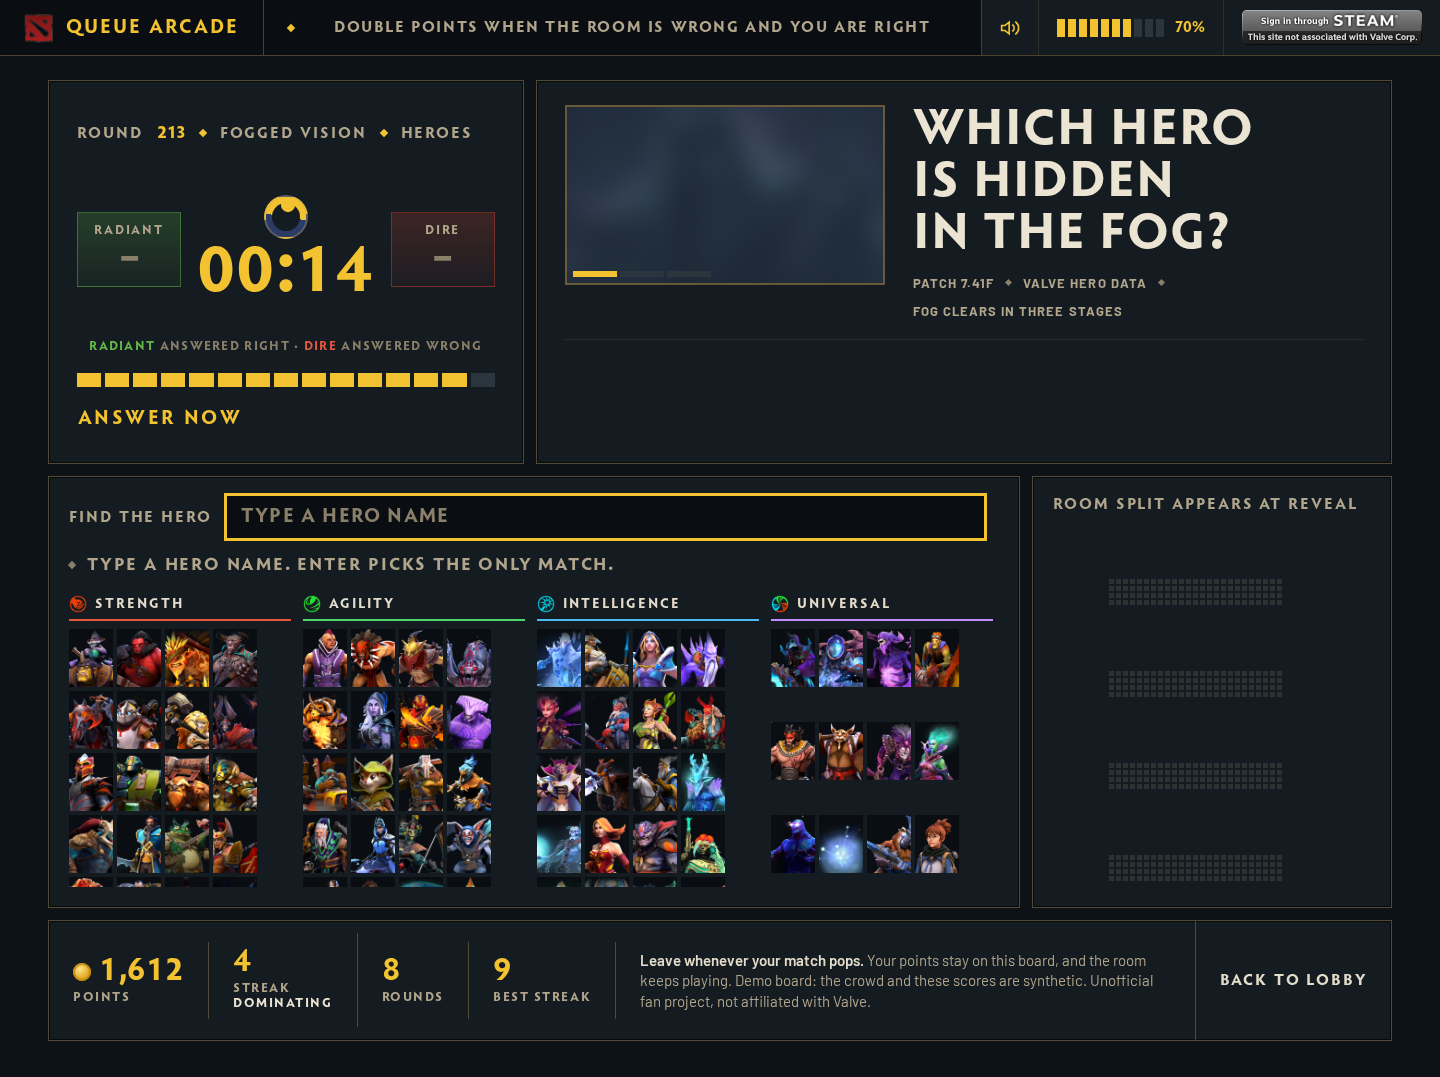
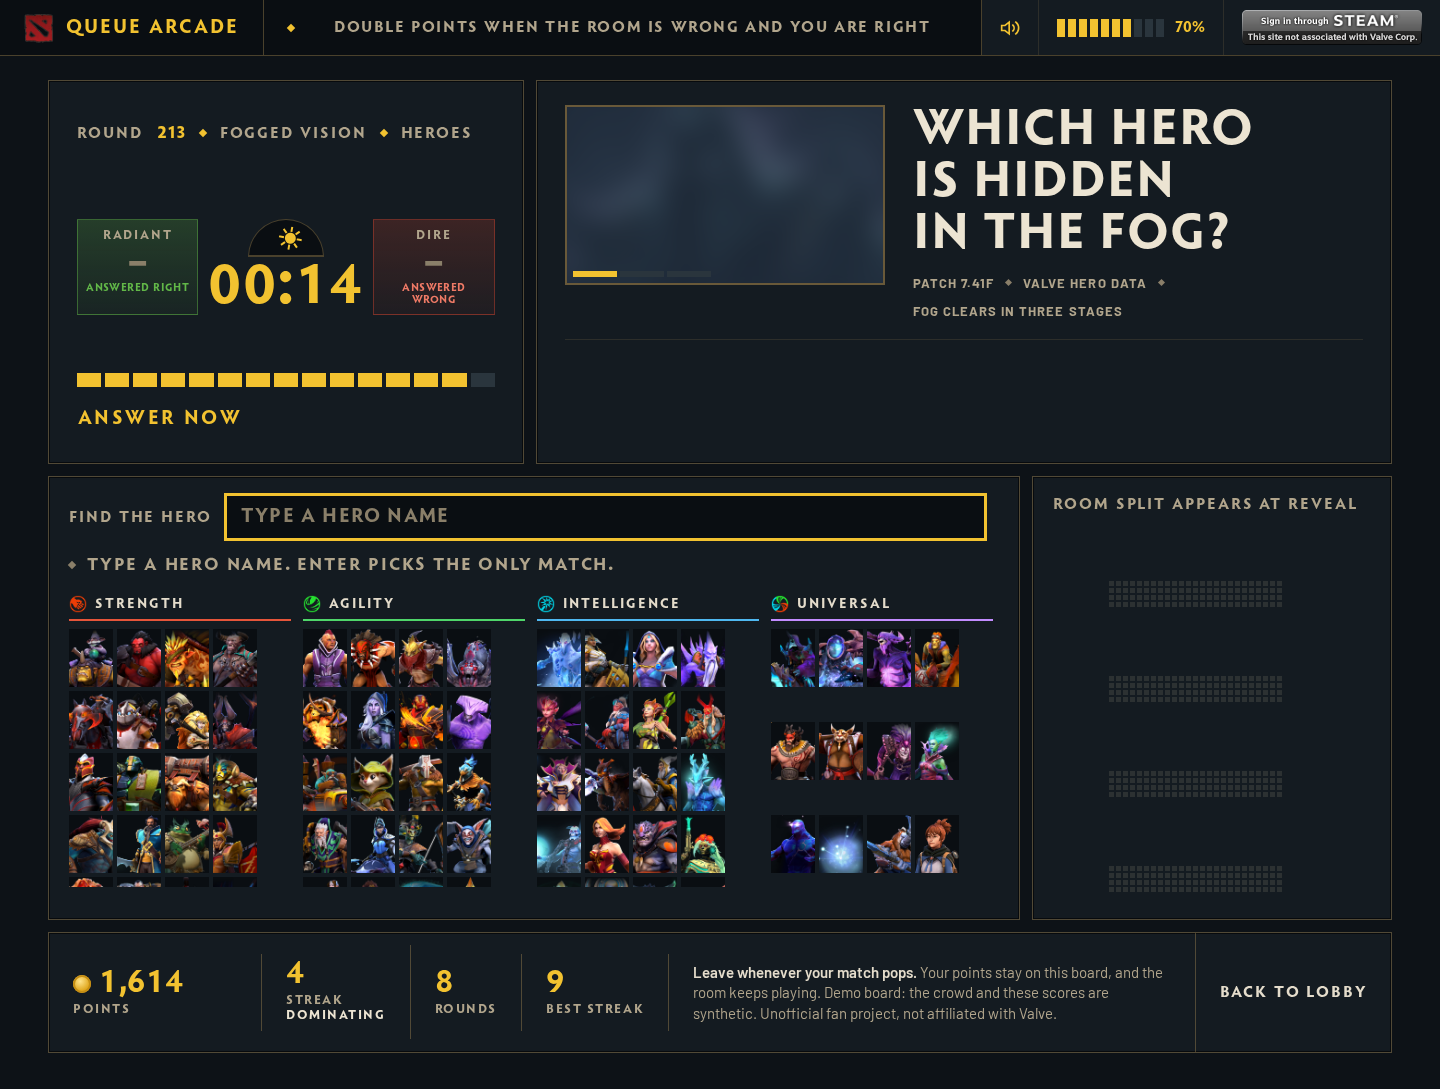
Dota 2 skin v2 review fixes: gold float, day-night horizon with sun and moon, HUD captions, padlock cooldown, attribute jump strip on phones, flash keeps the bars, lobby slot column.

diff --git a/design/poc/led-board/theme-dota.css b/design/poc/led-board/theme-dota.css
@@ -54,63 +54,42 @@ body { background-color: var(--ground); background-image: none; }
 /* --------------------------------------------------------------- the HUD top bar */
 .hud {
   display: grid;
-  grid-template-columns: 1fr auto 1fr;
+  grid-template-columns: minmax(0, 1fr) auto minmax(0, 1fr);
   align-items: center;
-  gap: 16px;
+  gap: 10px;
   align-self: center;
+  min-width: 0;
 }
-.hud-side { display: grid; gap: 2px; justify-items: center; padding: 10px 8px; border: 1px solid var(--seam-strong); }
+.hud-side { display: grid; gap: 2px; justify-items: center; padding: 8px 6px 6px; border: 1px solid var(--seam-strong); min-width: 0; }
+.hud-side small { font-family: var(--font-sign); font-weight: 700; font-size: 0.6875rem; letter-spacing: 0.04em; text-transform: uppercase; color: var(--text-3); white-space: normal; text-align: center; line-height: 1.1; min-height: 2.2em; display: grid; align-content: start; }
+.hud-side.radiant small { color: var(--green); }
+.hud-side.dire small { color: #ef7a66; }
 .hud-side span { font-family: var(--font-sign); font-weight: 700; font-size: 0.8125rem; letter-spacing: 0.14em; text-transform: uppercase; color: var(--text-2); }
 .hud-side b { font-family: var(--font-sign); font-weight: 700; font-size: 2.25rem; line-height: 1; color: var(--text-3); font-variant-numeric: tabular-nums; min-width: 3ch; text-align: center; }
 .hud-side.radiant { background: linear-gradient(180deg, rgba(98, 184, 72, 0.22), rgba(98, 184, 72, 0.06)); border-color: rgba(98, 184, 72, 0.45); }
 .hud-side.dire { background: linear-gradient(180deg, rgba(201, 67, 46, 0.22), rgba(201, 67, 46, 0.06)); border-color: rgba(201, 67, 46, 0.45); }
 .phase-reveal .hud-side.radiant b { color: var(--green); }
-.phase-reveal .hud-side.dire b { color: var(--red); }
+.phase-reveal .hud-side.dire b { color: var(--red-text); }
 .hud-clock { display: grid; justify-items: center; gap: 6px; }
-.clock { font-family: var(--font-sign); font-weight: 700; font-size: clamp(3.25rem, 4.6vw, 4.5rem); letter-spacing: 0.02em; line-height: 0.9; }
+.clock { font-family: var(--font-sign); font-weight: 700; font-size: clamp(2.75rem, 4vw, 3.75rem); letter-spacing: 0.02em; line-height: 0.9; }
 
-/* the day-night dial: sun up while answering, moon up at reveal */
+/* the day-night horizon: the sun stands over the clock while answering, the moon rises at reveal */
 .dial {
   display: block;
-  width: 44px; height: 44px;
-  border-radius: 50%;
-  border: 2px solid var(--seam-strong);
-  background: conic-gradient(from calc(-90deg + var(--turn, 0deg)), #f2c230 0deg 180deg, #2a3b66 180deg 360deg);
   position: relative;
+  width: 76px; height: 38px;
+  border-radius: 76px 76px 0 0;
+  border: 1px solid var(--seam-strong);
+  border-bottom: 0;
+  background: #0a0e12;
   overflow: hidden;
-  transition: none;
 }
-.dial::before {
-  content: "";
-  position: absolute;
-  inset: 6px;
-  border-radius: 50%;
-  background: var(--module);
-}
-.dial::after {
-  content: "";
-  position: absolute;
-  top: 50%; left: 50%;
-  width: 14px; height: 14px;
-  border-radius: 50%;
-  background: #f2c230;
-  transform: translate(-50%, -50%) rotate(var(--turn, 0deg)) translateY(-12px) rotate(calc(-1 * var(--turn, 0deg)));
-}
-.phase-reveal .dial::after { background: #d9dde6; box-shadow: inset 4px -2px 0 0 var(--module); }
-.hud-legend {
-  margin: 0;
-  font-family: var(--font-sign);
-  font-weight: 700;
-  font-size: 0.8125rem;
-  letter-spacing: 0.1em;
-  text-transform: uppercase;
-  color: var(--text-3);
-  text-align: center;
-  min-height: 1.4em;
-}
-.hud-legend em { font-style: normal; color: var(--green); }
-.hud-legend strong { font-weight: 700; color: var(--red-text); }
-.clock-module { grid-template-rows: auto 1fr auto auto auto; }
+.dial::after { content: ""; position: absolute; left: 0; right: 0; bottom: 0; height: 2px; background: var(--seam-strong); }
+.dial .sky { position: absolute; left: 0; top: 0; width: 76px; height: 76px; transform: rotate(var(--turn, 0deg)); }
+.dial svg { position: absolute; left: 50%; width: 24px; height: 24px; }
+.dial .sun { top: 6px; transform: translateX(-50%); fill: #f2c230; stroke: #f2c230; stroke-width: 2; }
+.dial .moon { bottom: 6px; transform: translateX(-50%) rotate(180deg); fill: #d9dde6; }
+.clock-module { grid-template-rows: auto 1fr auto auto; }
 .phase-reveal .clock { color: var(--lit); }
 .phase-reveal.result-right .clock { color: var(--green); }
 .phase-reveal.result-wrong .clock { color: var(--red); }
@@ -158,11 +137,8 @@ body { background-color: var(--ground); background-image: none; }
   display: none;
   background: conic-gradient(rgba(0, 0, 0, 0.72) calc(var(--cd, 0) * 1turn), transparent 0);
   place-items: center;
-  font-family: var(--font-sign);
-  font-weight: 700;
-  font-size: 1.5rem;
-  color: #fff;
 }
+.cell .cd svg { width: 22px; height: 22px; fill: none; stroke: #fff; stroke-width: 2; stroke-linejoin: miter; }
 .locked:not(.phase-reveal) .cell.picked .cd { display: grid; }
 .cell .label { font-weight: 700; font-size: 1.625rem; letter-spacing: 0.02em; }
 .cell .pct, .fog-split .row .pct, .round-label .num, .ticker-track .num, .fixtures .count, .volume .pct, .verdict .num, .scoring .num { font-family: var(--font-sign); font-weight: 700; }
@@ -173,15 +149,16 @@ body { background-color: var(--ground); background-image: none; }
 .phase-reveal .cell.correct .well, .phase-reveal .cell.picked.wrong .well { background: #0d1217; box-shadow: none; }
 .phase-reveal .cell.correct .key { color: var(--green); }
 .phase-reveal .cell.picked.wrong .key { color: var(--red); }
-.phase-reveal .cell.correct.breaker .well { background: var(--gold); animation: breaker-dota 0.5s steps(1) infinite; }
-.phase-reveal .cell.correct.breaker .key { color: #0d1217; }
-@keyframes breaker-dota { 50% { background: #0d1217; } }
-.phase-reveal .cell.correct.breaker .well .key { animation: breaker-key 0.5s steps(1) infinite; }
-@keyframes breaker-key { 50% { color: var(--gold); } }
+.phase-reveal .cell.correct.breaker .well { background: var(--gold); color: #0d1217; animation: breaker-dota 0.5s steps(1) infinite; }
+.phase-reveal .cell.correct.breaker .well .key { color: inherit; }
+@keyframes breaker-dota { 50% { background: #0d1217; color: var(--gold); } }
+@media (prefers-reduced-motion: reduce) { .phase-reveal .cell.correct.breaker .well { animation: none; } }
 
 /* -------------------------------------------------------------- bottom HUD */
 .scoreboard .stat b { font-family: var(--font-sign); font-weight: 700; font-size: 2rem; color: var(--amber); display: flex; align-items: center; gap: 8px; }
-#points::before {
+.scoreboard .stat b.gold span { font-family: inherit; font-size: inherit; font-weight: inherit; letter-spacing: inherit; text-transform: none; color: inherit; }
+.scoreboard .stat .float { font-style: normal; font-size: 1.125rem; color: var(--amber); min-width: 4.5ch; }
+.scoreboard .stat .gold::before {
   content: "";
   width: 18px; height: 18px;
   border-radius: 50%;
@@ -194,9 +171,27 @@ body { background-color: var(--ground); background-image: none; }
 
 /* ---------------------------------------------------------- the pick screen */
 .hero-grid { display: grid; grid-template-columns: repeat(4, 1fr); gap: 12px; align-content: start; }
+.hero-picker { grid-template-rows: auto auto auto 1fr; }
+.attr-jump { display: none; grid-template-columns: repeat(4, 1fr); gap: 6px; }
+.attr-jump button {
+  display: flex; align-items: center; justify-content: center; gap: 6px;
+  height: 36px; padding: 0;
+  background: #0a0e12; border: 1px solid var(--seam-strong); border-bottom-width: 3px;
+  font-family: var(--font-sign); font-weight: 700; font-size: 0.7rem; letter-spacing: 0.06em; text-transform: uppercase; color: var(--text);
+  cursor: pointer;
+}
+.attr-jump button img { width: 16px; height: 16px; }
+.attr-jump button[data-attr="str"] { border-bottom-color: var(--str); }
+.attr-jump button[data-attr="agi"] { border-bottom-color: var(--agi); }
+.attr-jump button[data-attr="int"] { border-bottom-color: var(--int); }
+.attr-jump button[data-attr="all"] { border-bottom-color: var(--all); }
 .attr-group { display: grid; grid-template-rows: auto 1fr; gap: 8px; align-content: start; }
 .attr-group h3 {
   margin: 0;
+  position: sticky;
+  top: 0;
+  z-index: 1;
+  background: var(--module);
   display: flex;
   align-items: center;
   gap: 8px;
@@ -266,9 +261,17 @@ body { background-color: var(--ground); background-image: none; }
   .prompt { min-height: 3em; }
   .cell .bonus, .cell .sub { font-size: 0.8rem; letter-spacing: 0.06em; }
   .clock-state { font-size: 1.0625rem; }
-  .dial { width: 32px; height: 32px; }
-  .dial::after { width: 10px; height: 10px; transform: translate(-50%, -50%) rotate(var(--turn, 0deg)) translateY(-9px) rotate(calc(-1 * var(--turn, 0deg))); }
-  .hud-legend { font-size: 0.7rem; }
+  .hud-side small { font-size: 0.6875rem; letter-spacing: 0.02em; }
+  .dial { width: 56px; height: 28px; }
+  .dial .sky { width: 56px; height: 56px; }
+  .dial svg { width: 18px; height: 18px; }
+  .dial .sun { top: 4px; }
+  .dial .moon { bottom: 4px; }
+  .fixtures .row { grid-template-columns: auto 1fr auto; }
+  .hero-grid { height: 320px; overflow-y: auto; }
+  .attr-jump { display: grid; }
+  .attr-jump button span { display: none; }
+  .attr-jump button { font-size: 0.65rem; }
   .cell { padding: 10px 10px 8px; }
   .cell .head { gap: 10px; }
   .cell .well { width: 40px; height: 40px; }

diff --git a/design/poc/led-board/play-dota.html b/design/poc/led-board/play-dota.html
@@ -30,11 +30,16 @@
     <section class="module clock-module" aria-live="off">
       <p class="round-label"><span>Round</span><span class="num" id="roundNumber">212</span><i class="led"></i><span id="roundFormat">Classic Trivia</span><i class="led"></i><span id="roundCategory">Items</span></p>
       <div class="hud">
-        <div class="hud-side radiant"><span>Radiant</span><b id="hudRadiant">–</b></div>
-        <div class="hud-clock"><i class="dial" id="dial" aria-hidden="true"></i><p class="clock" id="clock" role="timer" aria-label="Seconds left">00:15</p></div>
-        <div class="hud-side dire"><span>Dire</span><b id="hudDire">–</b></div>
+        <div class="hud-side radiant"><span>Radiant</span><b id="hudRadiant">–</b><small>answered right</small></div>
+        <div class="hud-clock">
+          <span class="dial" id="dial" aria-hidden="true"><span class="sky">
+            <svg class="sun" viewBox="0 0 24 24"><circle cx="12" cy="12" r="4.5"/><g stroke-linecap="square"><path d="M12 1.5v3M12 19.5v3M1.5 12h3M19.5 12h3M4.6 4.6l2.1 2.1M17.3 17.3l2.1 2.1M4.6 19.4l2.1-2.1M17.3 6.7l2.1-2.1"/></g></svg>
+            <svg class="moon" viewBox="0 0 24 24"><path d="M14.5 2.5a9.5 9.5 0 1 0 7 16A8 8 0 0 1 14.5 2.5z"/></svg>
+          </span></span>
+          <p class="clock" id="clock" role="timer" aria-label="Seconds left">00:15</p>
+        </div>
+        <div class="hud-side dire"><span>Dire</span><b id="hudDire">–</b><small>answered wrong</small></div>
       </div>
-      <p class="hud-legend"><em>Radiant</em> answered right · <strong>Dire</strong> answered wrong</p>
       <div class="timebar" id="timebar" aria-hidden="true"></div>
       <p class="clock-state" id="clockState">Answer now</p>
     </section>
@@ -52,10 +57,10 @@
     </section>
 
     <section class="answers" role="group" aria-label="Answers">
-      <button class="cell" type="button" data-key="A"><span class="head"><span class="well"><span class="key" aria-hidden="true">A</span><i class="cd" aria-hidden="true"></i><em class="hotkey" aria-hidden="true">A</em></span><span class="label">2,250 gold</span></span><span class="split"><span class="pct">31%</span><span class="dots" aria-hidden="true"></span></span><span class="foot"><span class="sub"></span><span class="bonus">2x crowd-breaker</span></span></button>
-      <button class="cell" type="button" data-key="B"><span class="head"><span class="well"><span class="key" aria-hidden="true">B</span><i class="cd" aria-hidden="true"></i><em class="hotkey" aria-hidden="true">B</em></span><span class="label">1,775 gold</span></span><span class="split"><span class="pct">44%</span><span class="dots" aria-hidden="true"></span></span><span class="foot"><span class="sub"></span><span class="bonus">2x crowd-breaker</span></span></button>
-      <button class="cell" type="button" data-key="C"><span class="head"><span class="well"><span class="key" aria-hidden="true">C</span><i class="cd" aria-hidden="true"></i><em class="hotkey" aria-hidden="true">C</em></span><span class="label">2,600 gold</span></span><span class="split"><span class="pct">15%</span><span class="dots" aria-hidden="true"></span></span><span class="foot"><span class="sub"></span><span class="bonus">2x crowd-breaker</span></span></button>
-      <button class="cell" type="button" data-key="D"><span class="head"><span class="well"><span class="key" aria-hidden="true">D</span><i class="cd" aria-hidden="true"></i><em class="hotkey" aria-hidden="true">D</em></span><span class="label">2,875 gold</span></span><span class="split"><span class="pct">10%</span><span class="dots" aria-hidden="true"></span></span><span class="foot"><span class="sub"></span><span class="bonus">2x crowd-breaker</span></span></button>
+      <button class="cell" type="button" data-key="A"><span class="head"><span class="well"><span class="key" aria-hidden="true">A</span><i class="cd" aria-hidden="true"><svg viewBox="0 0 24 24"><rect x="5" y="11" width="14" height="10"/><path d="M8 11V7a4 4 0 0 1 8 0v4"/></svg></i><em class="hotkey" aria-hidden="true">A</em></span><span class="label">2,250 gold</span></span><span class="split"><span class="pct">31%</span><span class="dots" aria-hidden="true"></span></span><span class="foot"><span class="sub"></span><span class="bonus">2x crowd-breaker</span></span></button>
+      <button class="cell" type="button" data-key="B"><span class="head"><span class="well"><span class="key" aria-hidden="true">B</span><i class="cd" aria-hidden="true"><svg viewBox="0 0 24 24"><rect x="5" y="11" width="14" height="10"/><path d="M8 11V7a4 4 0 0 1 8 0v4"/></svg></i><em class="hotkey" aria-hidden="true">B</em></span><span class="label">1,775 gold</span></span><span class="split"><span class="pct">44%</span><span class="dots" aria-hidden="true"></span></span><span class="foot"><span class="sub"></span><span class="bonus">2x crowd-breaker</span></span></button>
+      <button class="cell" type="button" data-key="C"><span class="head"><span class="well"><span class="key" aria-hidden="true">C</span><i class="cd" aria-hidden="true"><svg viewBox="0 0 24 24"><rect x="5" y="11" width="14" height="10"/><path d="M8 11V7a4 4 0 0 1 8 0v4"/></svg></i><em class="hotkey" aria-hidden="true">C</em></span><span class="label">2,600 gold</span></span><span class="split"><span class="pct">15%</span><span class="dots" aria-hidden="true"></span></span><span class="foot"><span class="sub"></span><span class="bonus">2x crowd-breaker</span></span></button>
+      <button class="cell" type="button" data-key="D"><span class="head"><span class="well"><span class="key" aria-hidden="true">D</span><i class="cd" aria-hidden="true"><svg viewBox="0 0 24 24"><rect x="5" y="11" width="14" height="10"/><path d="M8 11V7a4 4 0 0 1 8 0v4"/></svg></i><em class="hotkey" aria-hidden="true">D</em></span><span class="label">2,875 gold</span></span><span class="split"><span class="pct">10%</span><span class="dots" aria-hidden="true"></span></span><span class="foot"><span class="sub"></span><span class="bonus">2x crowd-breaker</span></span></button>
     </section>
 
     <section class="fog-module" aria-label="Hero picker">
@@ -78,7 +83,7 @@
     </section>
 
     <footer class="module scoreboard">
-      <div class="stat"><b id="points">1,240</b><span>Points</span></div>
+      <div class="stat"><b class="gold"><span id="points">1,240</span><em class="float" id="pointsFloat"></em></b><span>Points</span></div>
       <div class="stat"><b id="streak">3</b><span>Streak <em id="streakName">Killing Spree</em></span></div>
       <div class="stat"><b id="roundsPlayed">7</b><span>Rounds</span></div>
       <div class="stat"><b id="best">9</b><span>Best streak</span></div>

diff --git a/design/poc/led-board/board.css b/design/poc/led-board/board.css
@@ -416,7 +416,11 @@ button { font: inherit; color: inherit; }
 .flash-wrong .fascia, .flash-wrong .fascia *:not(img):not(svg):not(path), .flash-wrong .module, .flash-wrong .module *:not(img):not(svg):not(path), .flash-wrong .cell, .flash-wrong .cell *:not(img) { background-color: var(--red) !important; background-image: none !important; }
 .flash-missed .fascia, .flash-missed .fascia *:not(img):not(svg):not(path), .flash-missed .module, .flash-missed .module *:not(img):not(svg):not(path), .flash-missed .cell, .flash-missed .cell *:not(img) { background-color: var(--lit) !important; background-image: none !important; }
 .flash-right .mute svg, .flash-wrong .mute svg, .flash-missed .mute svg { stroke: #000 !important; }
-.flash-right .dots i, .flash-wrong .dots i, .flash-missed .dots i, .flash-right .timebar i, .flash-wrong .timebar i, .flash-missed .timebar i, .flash-right .volume i, .flash-wrong .volume i, .flash-missed .volume i, .flash-right .led, .flash-wrong .led, .flash-missed .led { background-color: #000 !important; }
+.flash-right .cell .dots i, .flash-wrong .cell .dots i, .flash-missed .cell .dots i, .flash-right .module .dots i, .flash-wrong .module .dots i, .flash-missed .module .dots i,
+.flash-right .module .timebar i, .flash-wrong .module .timebar i, .flash-missed .module .timebar i,
+.flash-right .fascia .volume i, .flash-wrong .fascia .volume i, .flash-missed .fascia .volume i,
+.flash-right .fascia .led, .flash-wrong .fascia .led, .flash-missed .fascia .led, .flash-right .module .led, .flash-wrong .module .led, .flash-missed .module .led { background-color: #000 !important; }
+.flash-right .module .timebar i:not(.lit), .flash-wrong .module .timebar i:not(.lit), .flash-missed .module .timebar i:not(.lit), .flash-right .fascia .volume i:not(.lit), .flash-wrong .fascia .volume i:not(.lit), .flash-missed .fascia .volume i:not(.lit) { background-color: rgba(0, 0, 0, 0.3) !important; }
 
 /* -- scoreboard */
 .scoreboard {
@@ -767,11 +771,11 @@ button { font: inherit; color: inherit; }
   .fascia { height: var(--fascia-h); grid-template-columns: auto 1fr; grid-template-rows: 52px 32px; }
   .sign { padding: 0 14px; font-size: 1.125rem; letter-spacing: 0.1em; }
   .sign .px { display: none; }
-  .ticker { grid-column: 1 / 3; grid-row: 2; border-top: 1px solid var(--seam-strong); padding: 4px 0; }
+  .ticker { grid-column: 1 / 3; grid-row: 2; border-top: 1px solid var(--seam-strong); padding: 2px 0; }
   .ticker-track { font-size: 0.875rem; padding-left: 14px; gap: 28px; }
   .ticker-track .item { gap: 28px; }
   .ticker.stepped .ticker-track { padding: 0 14px; white-space: normal; width: 100%; }
-  .ticker.stepped .item.on { display: flex; align-items: flex-start; gap: 10px; line-height: 1.1; letter-spacing: 0.06em; font-size: 0.8125rem; }
+  .ticker.stepped .item.on { display: flex; align-items: flex-start; gap: 10px; line-height: 1.05; letter-spacing: 0.05em; font-size: 0.75rem; }
   .ticker.stepped .item.on .led { margin-top: 4px; }
   .fascia-controls { grid-column: 2; grid-row: 1; justify-content: end; }
   .steam { display: none; }

diff --git a/design/poc/led-board/board.js b/design/poc/led-board/board.js
@@ -164,6 +164,15 @@
     grid.innerHTML = DOTA
       ? ATTRIBUTE_GROUPS.map(([key, label, icon]) => `<section class="attr-group" data-attr="${key}"><h3><img src="${CDN}/icons/${icon}.png" alt="" width="18" height="18">${label}</h3><div class="tiles">${heroes.filter((h) => h.attr === key).map(tile).join("")}</div></section>`).join("")
       : heroes.map(tile).join("");
+    if (DOTA && !$(".attr-jump")) {
+      grid.insertAdjacentHTML("beforebegin", `<div class="attr-jump" role="group" aria-label="Jump to attribute">${ATTRIBUTE_GROUPS.map(([key, label, icon]) => `<button type="button" data-attr="${key}" aria-label="${label}"><img src="${CDN}/icons/${icon}.png" alt="" width="16" height="16"><span>${label}</span></button>`).join("")}</div>`);
+      $(".attr-jump").addEventListener("click", (event) => {
+        const button = event.target.closest("button");
+        if (!button) return;
+        const section = $(`.attr-group[data-attr="${button.dataset.attr}"]`, grid);
+        if (section) grid.scrollTo({ top: section.offsetTop - grid.offsetTop, behavior: "auto" });
+      });
+    }
     grid.addEventListener("click", (event) => {
       const button = event.target.closest("button");
       if (button) pickHero(button.dataset.slug);
@@ -240,7 +249,7 @@
       $("#prompt").textContent = `Next: ${round.label}`;
       setClockState("Next round");
       $("#clockState").classList.remove("banner");
-      if (DOTA) { $("#hudRadiant").textContent = "–"; $("#hudDire").textContent = "–"; $("#dial")?.style.setProperty("--turn", "0deg"); }
+      if (DOTA) { $("#hudRadiant").textContent = "–"; $("#hudDire").textContent = "–"; $("#dial")?.style.setProperty("--turn", "0deg"); const f = $("#pointsFloat"); if (f) f.textContent = ""; }
       $$(".cell").forEach((cell) => (cell.disabled = true));
     }
     if (phase === "answering") {
@@ -334,6 +343,7 @@
     state.points += gained;
     state.rounds += 1;
     paintScore();
+    if (DOTA) { const f = $("#pointsFloat"); if (f) f.textContent = gained ? `+${gained}` : ""; }
 
     const verdict = $("#verdict");
     const crowd = majorityWrong
@@ -383,7 +393,6 @@
           if (state.pick !== null && rounds[state.index].format === "classic") {
             const cd = $(".cd", $$(".cell")[state.pick]);
             cd.style.setProperty("--cd", String(Math.max(0, ROUND - elapsed) / ROUND));
-            cd.textContent = String(left);
           }
         }
         if (rounds[state.index].format === "fogged") {
